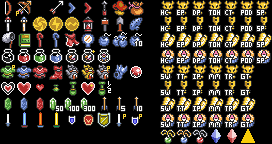
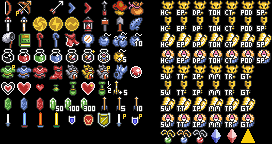
Add bomb and Arrow upgrades

Changed region(s): [[0.6471, 0.0, 1.0, 0.1111], [0.4118, 0.3333, 0.4706, 0.4444], [0.4118, 0.5556, 0.4706, 0.6667]]

diff --git a/source/gui/customizer/item_sprite_data.py b/source/gui/customizer/item_sprite_data.py
@@ -32,6 +32,7 @@ item_table = {
     "Bottle (Bee)": (3, 4),
     "Bottle (Good Bee)": (3, 5),
     "Bottle (Fairy)": (3, 6),
+    "Bomb Upgrade (+5)": (3, 7),
     "Progressive Armor": (4, 0),
     "Blue Mail": (4, 1),
     "Red Mail": (4, 2),
@@ -48,6 +49,7 @@ item_table = {
     "Big Magic": (5, 4),
     "Sanctuary Heart Container": (5, 5),
     "Magic Upgrade (1/2)": (5, 6),
+    "Arrow Upgrade (+5)": (5, 7),
     "Rupee (1)": (6, 0),
     "Rupees (5)": (6, 1),
     "Rupees (20)": (6, 2),
